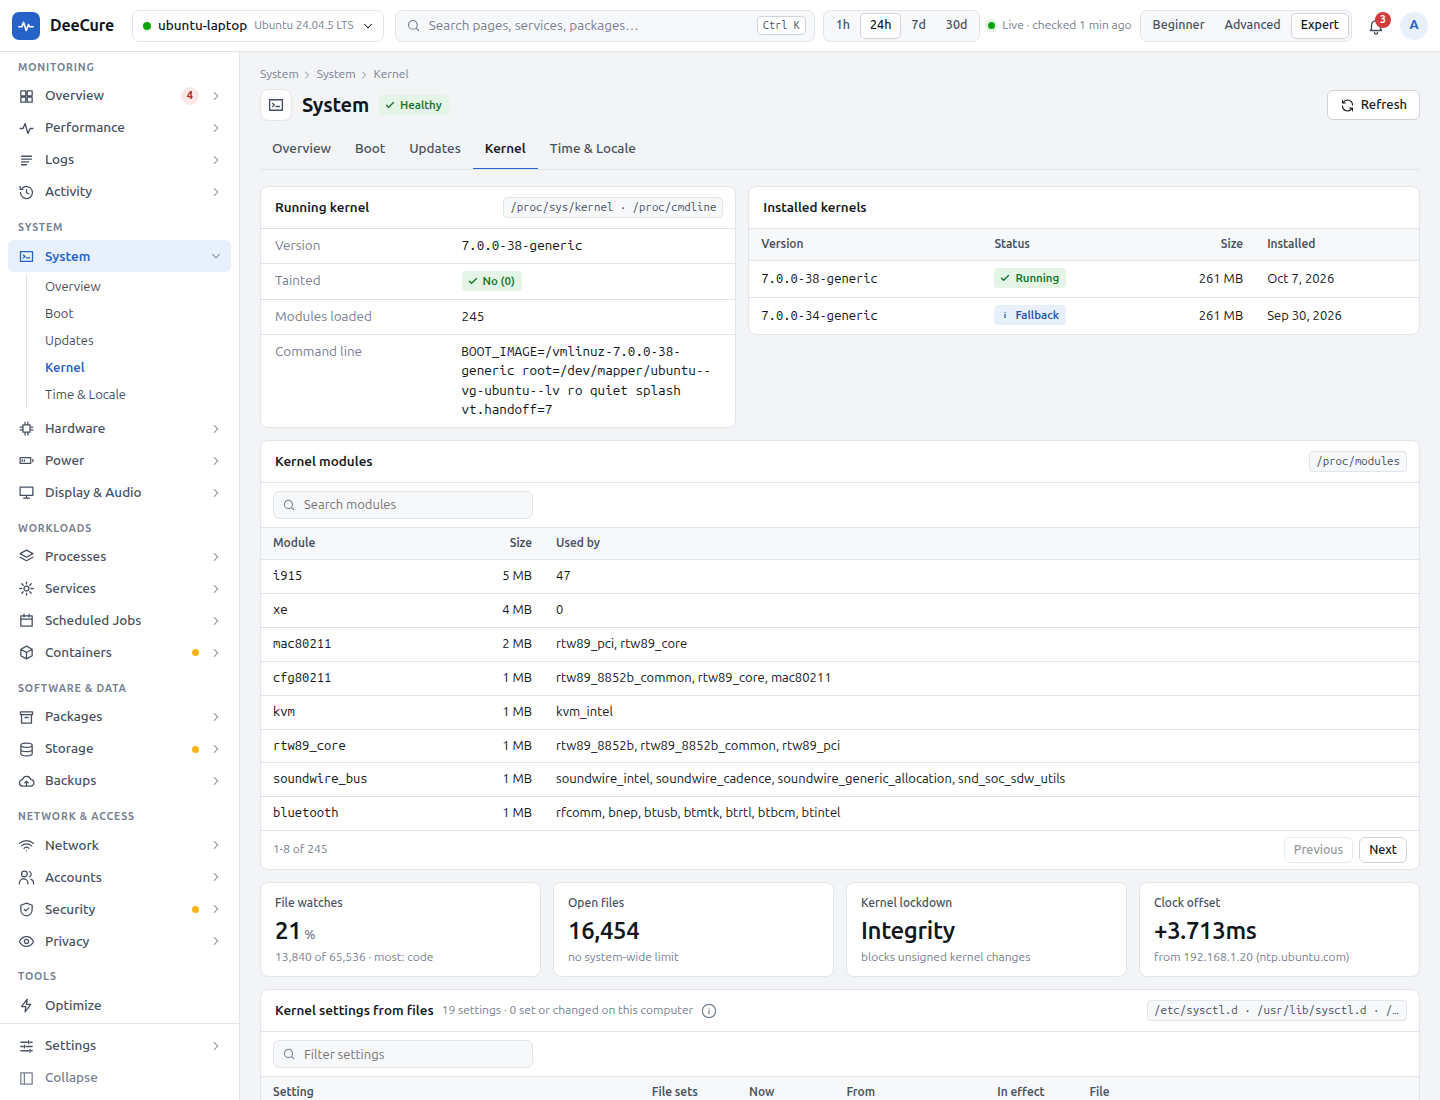
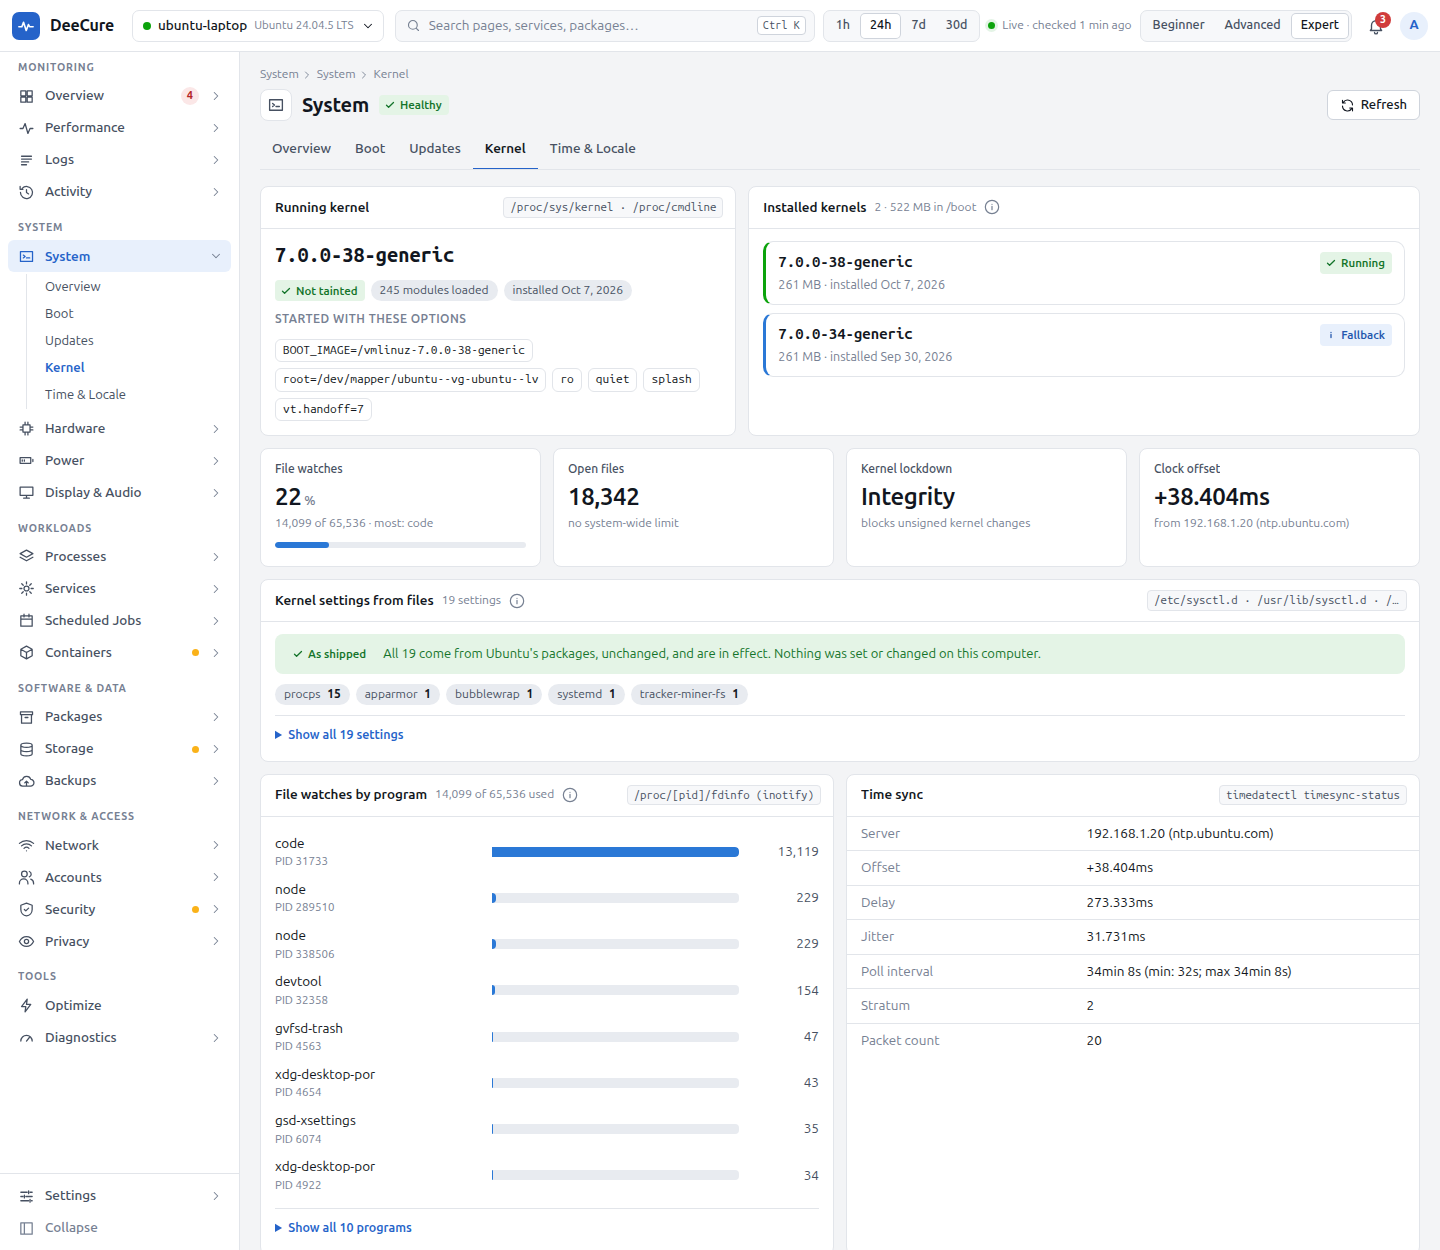
docs: README screenshots of the new design
All README screenshots are retaken in the Expert view with the redesigned Overview,
Memory, Kernel, and Health Score pages; the old images are replaced. The gallery adds
Memory and the Health score breakdown.

diff --git a/README.md b/README.md
@@ -145,6 +145,10 @@ Switch at any time from the top bar. [View levels](docs/01-product/view-levels.m
     <td width="50%"><a href="docs/07-user-guide/images/deecure-expert-linux-kernel-modules.png"><img src="docs/07-user-guide/images/deecure-expert-linux-kernel-modules.png" alt="DeeCure Linux kernel page: running kernel, command line, installed kernels with the fallback, loaded kernel modules, file watches, open files, kernel lockdown, and clock offset"></a><br><b>Kernel:</b> installed kernels, loaded modules, limits, and settings with the file that set them.</td>
     <td width="50%"><a href="docs/07-user-guide/images/deecure-expert-optimize-improvements.png"><img src="docs/07-user-guide/images/deecure-expert-optimize-improvements.png" alt="DeeCure Optimize page on Ubuntu: device power saving, Docker and snap cleanup, emptying the trash, and the APT cache, each with the measured space or reason and a Preview button"></a><br><b>Optimize:</b> only the improvements this computer measurably needs.</td>
   </tr>
+  <tr>
+    <td width="50%"><a href="docs/07-user-guide/images/deecure-expert-memory-map.png"><img src="docs/07-user-guide/images/deecure-expert-memory-map.png" alt="DeeCure memory page on Linux: what fills RAM as one bar with cache striped, a plain-language verdict, memory usage over 24 hours, where memory goes in detail, and the apps, services, and processes using the most memory"></a><br><b>Memory:</b> what really fills RAM, what can be freed, and who uses it.</td>
+    <td width="50%"><a href="docs/07-user-guide/images/deecure-expert-health-score-breakdown.png"><img src="docs/07-user-guide/images/deecure-expert-health-score-breakdown.png" alt="DeeCure health score breakdown: 100 minus the points each area loses equals 85, and a card per area with its points kept, status, and open problems"></a><br><b>Health score:</b> how the score is reached, area by area.</td>
+  </tr>
 </table>
 
 ## Private and safe by design
